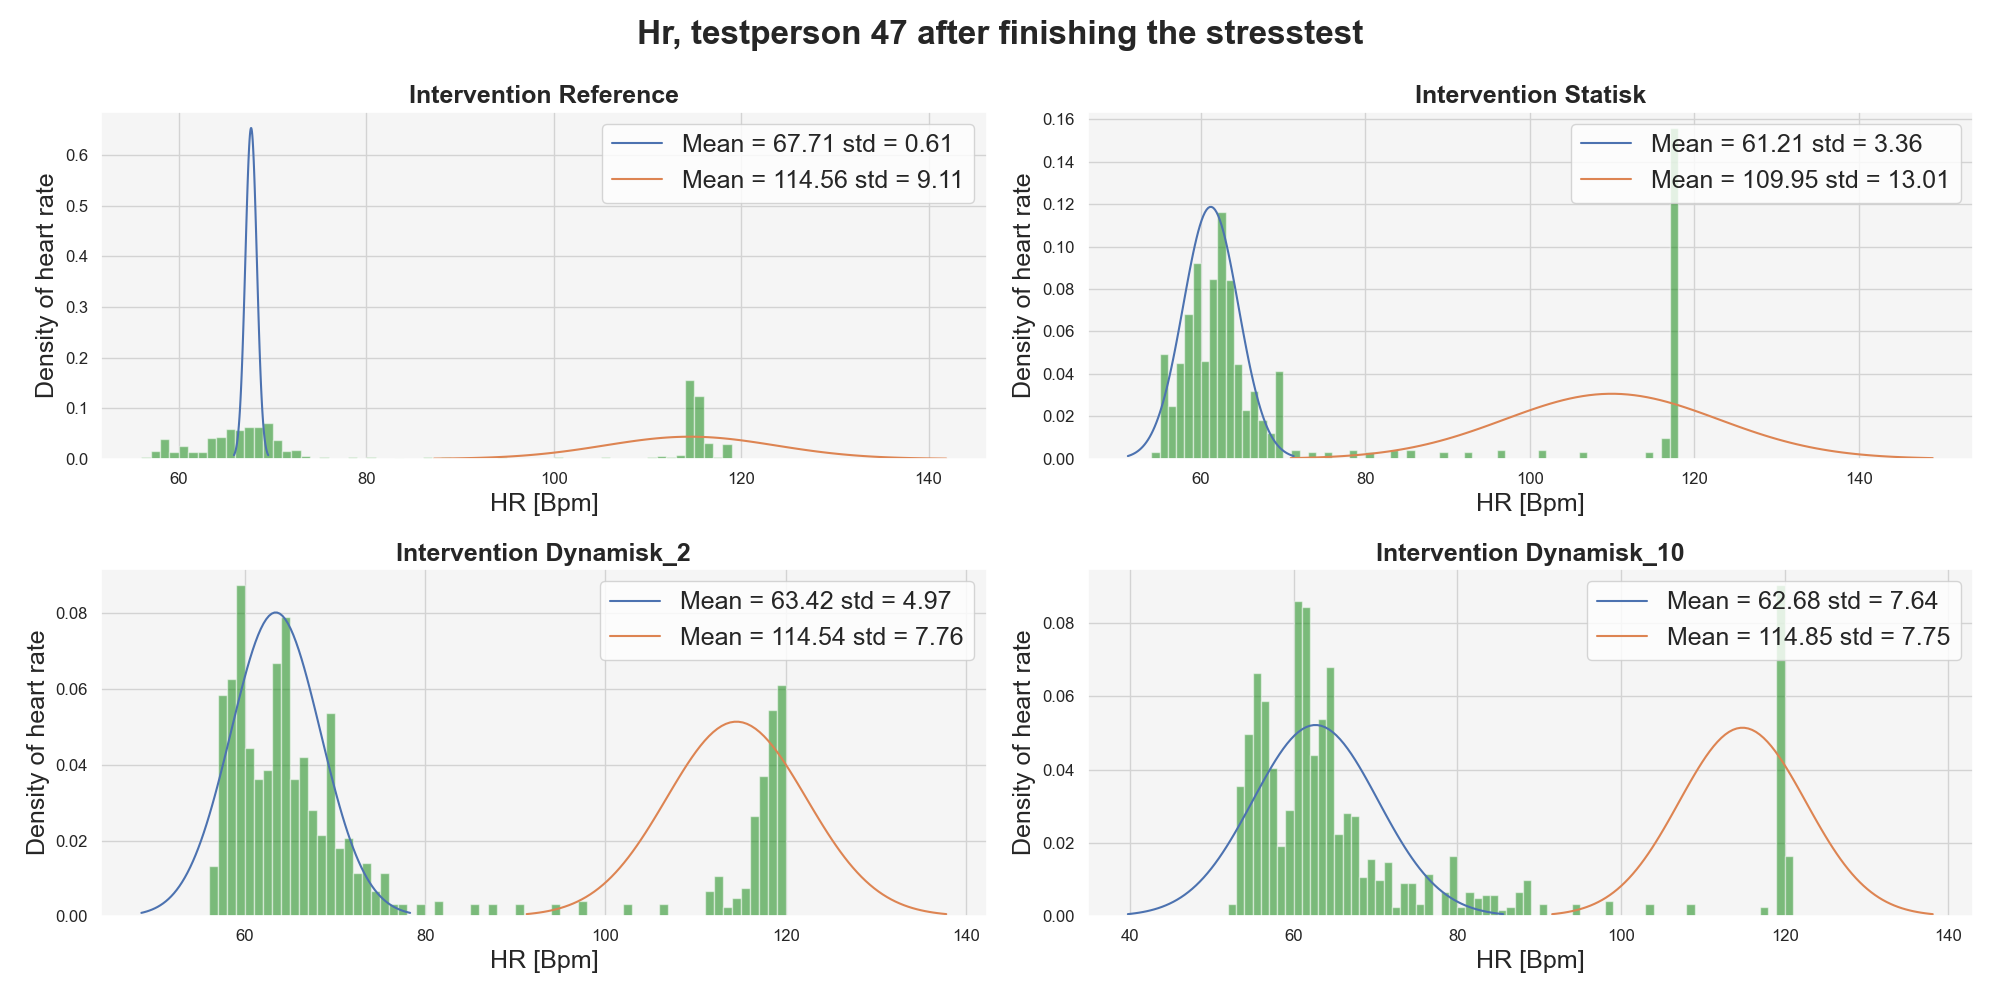
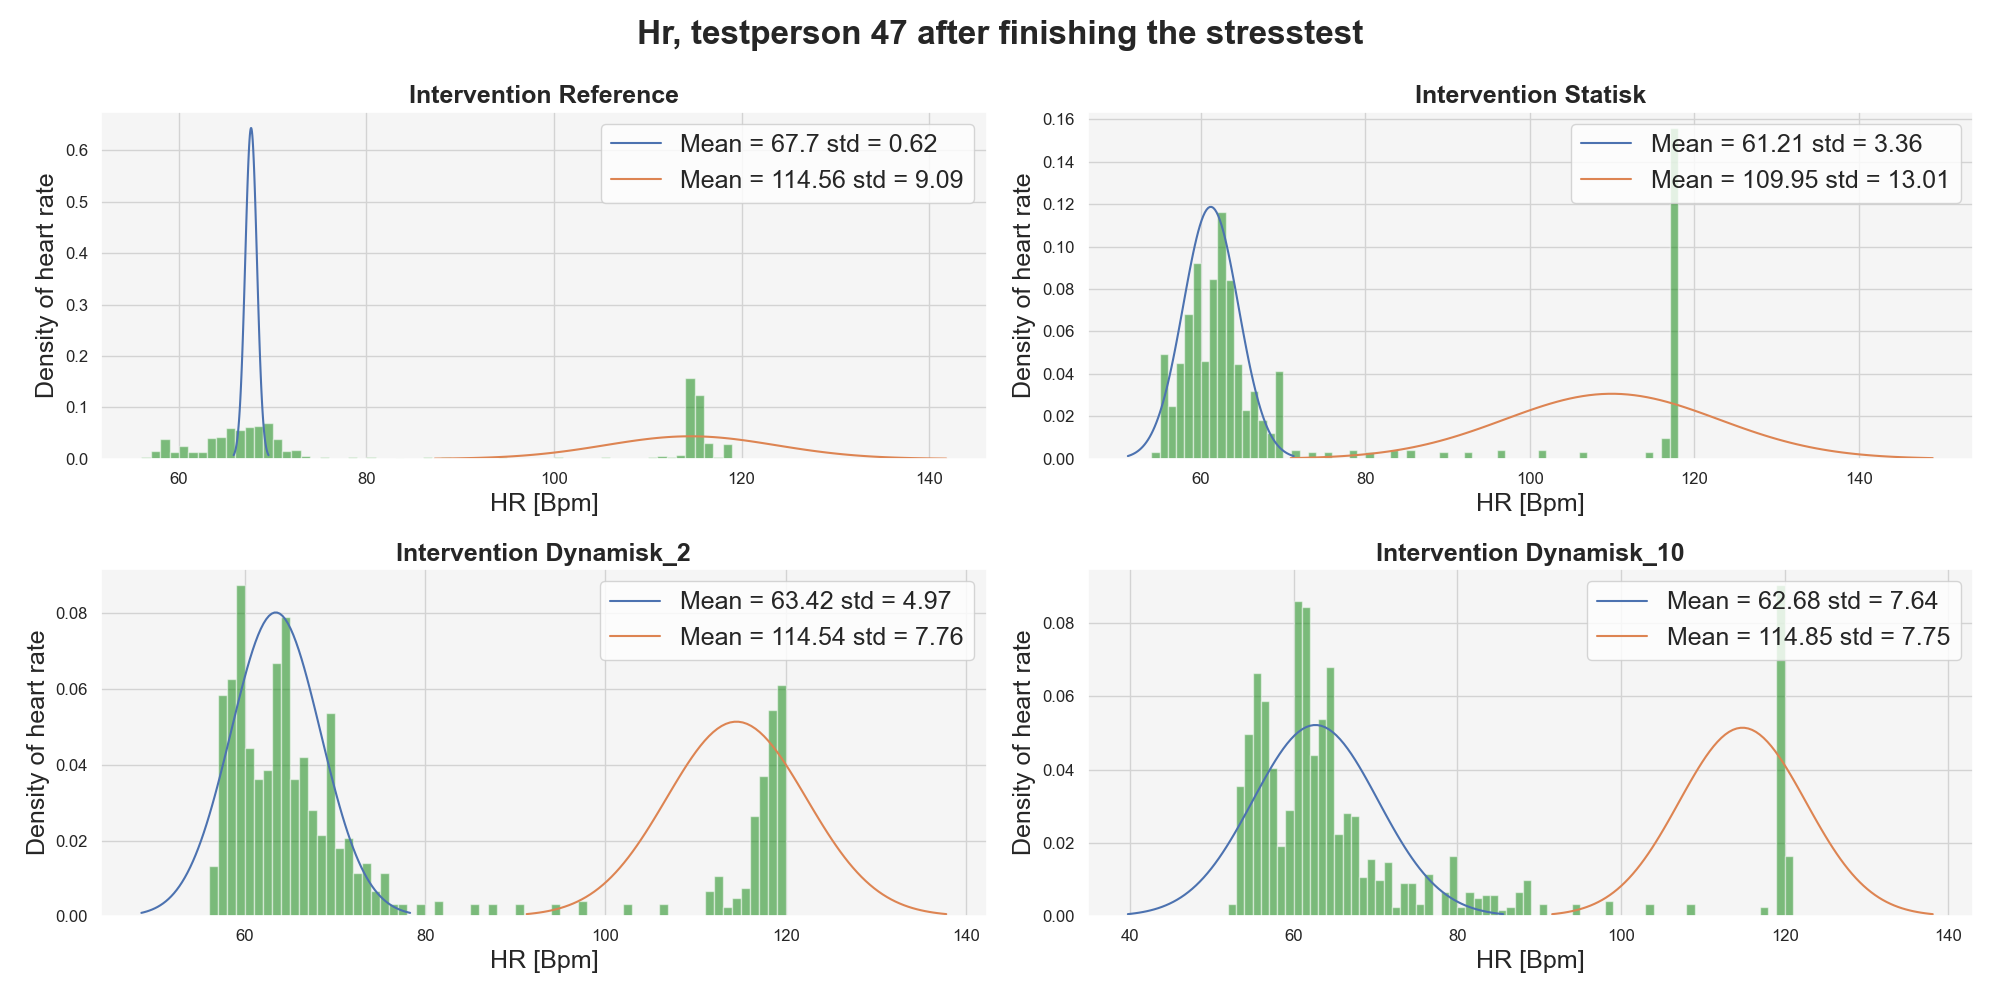
Lavet om på figurerne, så testpersonnummeret ikke længere fremgår

diff --git a/plotter.py b/plotter.py
@@ -264,12 +264,12 @@ class plotter_class():
 
         # Ændrer skriftstørrelsen, så plotsne bliver mere læsbare i artiklen
         SMALL_SIZE = 12
-        MEDIUM_SIZE = 12 #16
-        MEDIUM_BIG_SIZE = 14 #20
-        BIGGER_SIZE = 16 #22
+        MEDIUM_SIZE = 16
+        MEDIUM_BIG_SIZE = 20
+        BIGGER_SIZE = 22
 
         plt.rc('font', size=MEDIUM_SIZE)         # controls default text sizes
-        plt.rc('axes', titlesize=SMALL_SIZE)     # fontsize of the axes title
+        plt.rc('axes', titlesize=MEDIUM_BIG_SIZE)     # fontsize of the axes title
         plt.rc('axes', labelsize=MEDIUM_SIZE)    # fontsize of the x and y labels
         plt.rc('xtick', labelsize=SMALL_SIZE)    # fontsize of the tick labels
         plt.rc('ytick', labelsize=SMALL_SIZE)    # fontsize of the tick labels
@@ -277,7 +277,7 @@ class plotter_class():
         plt.rc('figure', titlesize=BIGGER_SIZE)  # fontsize of the figure title
 
         fig, axs = plt.subplots(2,2)
-        fig.suptitle("Hr, testperson " + str(testperson_nr) + " after finishing the stresstest", fontweight='bold')
+        #fig.suptitle("Hr, testperson " + str(testperson_nr) + " after finishing the stresstest", fontweight='bold')
         list_koordinates = [(0,0), (0,1), (1,0), (1,1)]
 
         y_lim_low = min(max_and_min_values)-5
@@ -289,7 +289,7 @@ class plotter_class():
             axs[list_koordinates[n]].axhline(y=mean, color='b', linestyle='-', label = 'Mean of low cluster = ' + str(round(mean,2)), linewidth = 1.6)
             axs[list_koordinates[n]].axhline(y=mean + dict_mean_std[intervention_list[n]][0]["std_low"], color='k', linestyle='--', linewidth = 1, label = 'Mean of low cluster +/- 1*std ')
             axs[list_koordinates[n]].axhline(y=mean - dict_mean_std[intervention_list[n]][0]["std_low"], color='k', linestyle='--', linewidth = 1)
-            axs[list_koordinates[n]].plot(dict_timeaxes[intervention_list[n]]["Avg"], dict_hastighed[intervention_list[n]], color = 'darkgoldenrod', label = 'Stabelization velocity = ' + str(hastighed_lin_reg[intervention_list[n]]['coef']) + ' bpm/s', linewidth = 2)   
+            axs[list_koordinates[n]].plot(dict_timeaxes[intervention_list[n]]["Avg"], dict_hastighed[intervention_list[n]], color = 'darkgoldenrod', label = 'Stabilization velocity = ' + str(hastighed_lin_reg[intervention_list[n]]['coef']) + ' bpm/s', linewidth = 2)   
             markerline_mean, stemlines_mean, baseline = axs[list_koordinates[n]].stem(dict_indexes_time[intervention_list[n]]['gmm'],y_lim_high-10,'b', markerfmt='o', label = 'Stabilization time = ' + str(dict_indexes_time[intervention_list[n]]['gmm']) + " sec", basefmt=" ")
     
             plt.setp(markerline_mean, 'color', plt.getp( stemlines_mean,'color'))

diff --git a/main.py b/main.py
@@ -11,8 +11,8 @@ sd = sort_data_class()
 results = results_class()
 plotter = plotter_class()
 
-timelimits_list = fr.read_data('timelimits_full_2')#therest')
-brugbare =[1,3,4,5,6,7,8,9,10,11,12,15,16,17,18,19,20,21,22,23,24,25,26,27,28,29,30,31,32,33,35,36,37,38]#,40,41,42,43,44,45,46,47,48,49,50,51,52]
+timelimits_list = fr.read_data('timelimits_therest')#full_2')#
+brugbare =[40,41,42,43,44,45,46,47,48,49,50,51,52]#1,3,4,5,6,7,8,9,10,11,12,15,16,17,18,19,20,21,22,23,24,25,26,27,28,29,30,31,32,33,35,36,37,38]#
 gennemkoerselsesgang = 0
 all_datasets = {}
 for testperson_nr in brugbare:
